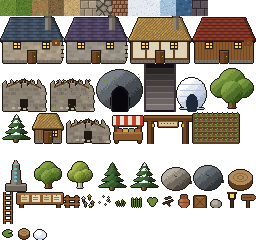
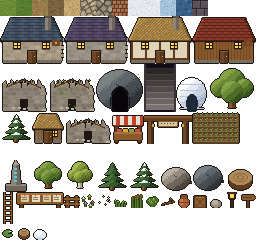
Village art pass: flagstone roads, calmer grass, readable ground foliage, roads kept clear
Claude-Session: https://claude.ai/code/session_01W1uJ5uHvqaBoa2FaNtCMxA

diff --git a/rpg.js b/rpg.js
@@ -277,6 +277,7 @@
     for (let x = 2; x <= W - 3; x++) if (x !== 19 && x !== 20) zplace(z, 'fence', x, 30);
     // outskirts field
     [['rock', 6, 33], ['rock', 30, 36], ['stump', 10, 39], ['treeB', 27, 32], ['treeA', 7, 38], ['stone', 25, 40], ['stone', 13, 35], ['crate', 17, 36], ['pot', 22, 36]].forEach(([n, x, y]) => zplace(z, n, x, y));
+    z.noDecoOn = (g) => g === PAVE || g === COB || g === DIRT; // keep the roads clear
     scatter(z, 80, ['flowers', 'dots', 'tuft', 'tuft2', 'clover', 'twigs'], 7);
     z.exits.push({ x: 19, y: H - 1, w: 2, h: 1, to: 'r0', tx: 18, ty: 2, label: () => `${REG()[0].name}`, locked: () => (R.q < 4 ? 'The road south isn\'t safe yet.' : null) });
     const built = (id) => !!(G._village && G._village.done(id));

diff --git a/sw.js b/sw.js
@@ -1,7 +1,7 @@
 /* Pulse Workout Tracker — service worker
    Cache-first for the app shell so it loads instantly and fully offline.
    Bump CACHE on every release so clients pick up the new files. */
-const CACHE = 'pulse-v34';
+const CACHE = 'pulse-v35';
 const SHELL = [
   './',
   './index.html',

diff --git a/tools/envgen.py b/tools/envgen.py
@@ -20,12 +20,16 @@ def tile(fn):
     return im
 def grass(base,light,dark,seed):
     b,l,d=C(base),C(light),C(dark)
+    m=sh(b,1.05)
     def f(x,y):
+        # soft 4x4 patches of a slightly lighter base, then sparse blades: highlight with a shadow under it
+        patch=hh(x//4,y//4,seed+40)<0.35
+        c=m if patch else b
         r=hh(x,y,seed)
-        if r<0.10: return l
-        if r<0.2: return d
-        if hh(x,(y+1)%16,seed)<0.1 and r<0.35: return d  # blade shadow under highlights
-        return b
+        if r<0.055: return l
+        if hh(x,(y+15)%16,seed)<0.055: return d  # the shadow under a blade
+        if r>0.97: return sh(d,1.08)
+        return c
     return tile(f)
 def dirt(base,light,dark,seed,flecks=None):
     b,l,d=C(base),C(light),C(dark)
@@ -49,9 +53,9 @@ def flags(base,mortar,seed,size=8):
         if hh(x,y,seed)<0.05: c=sh(c,0.85)
         return c
     return tile(f)
-def cobble(base,gap,seed):
+def cobble(base,gap,seed,cells=None):
     b,g=C(base),C(gap)
-    cs=[(3,3),(11,2),(7,8),(14,9),(2,12),(10,14),(6,0)]
+    cs=list(cells) if cells else [(3,3),(11,2),(7,8),(14,9),(2,12),(10,14),(6,0)]
     def f(x,y):
         best=9e9;sec=9e9;bi=0
         for i,(cx,cy) in enumerate(cs):
@@ -94,8 +98,8 @@ GROUND={
  'ts,24,11':dirt('#9a7a4c','#b0905e','#7c6038',3,flecks='#6a8a36'),
  'ts,25,11':dirt('#7c6040','#927452','#5e4830',4,flecks='#557a2e'),
  'ts,20,11':dirt('#c4a670','#d8bc86','#a88c5a',5),
- 'ts,19,11':flags('#a8987e','#6e6252',6),
- 'ts,18,11':cobble('#8e8476','#4a4238',7),
+ 'ts,19,11':cobble('#a89a80','#6a5e4c',6,cells=((4,4),(12,3),(8,10),(15,12),(2,13),(10,0),(6,6.5),(13,8))),
+ 'ts,18,11':cobble('#948a78','#564c3e',7),
  'ts,26,11':bricks('#a86e4c','#5e3a26',8),
  'ts,15,19':snow(9),'ts,13,19':snow(10,True),'ts,19,19':ice(11),
  'ts,23,6':water(12),
@@ -225,19 +229,35 @@ def arch():  # village gateway (replaces the pack's shrine arch)
     return outline(im)
 def small(fn,w=16,h=16):
     im=canvas(w,h); d=ImageDraw.Draw(im); fn(d); return outline(im)
+def soft_outline(im,col):
+    px=im.load(); w,h=im.size; out=im.copy(); o=out.load()
+    for y in range(h):
+        for x in range(w):
+            if px[x,y][3]<10 and any(0<=x+dx<w and 0<=y+dy<h and px[x+dx,y+dy][3]>200 for dx,dy in ((1,0),(-1,0),(0,1))): o[x,y]=C(col)
+    return out
+def scatter(fn,col='#2c3e16'):
+    im=canvas(16,16); d=ImageDraw.Draw(im); fn(d); return soft_outline(im,col)
 def fence(d): d.rectangle((2,4,4,15),fill=C('#6e4626')); d.rectangle((11,4,13,15),fill=C('#6e4626')); d.rectangle((0,6,15,7),fill=C('#8a5a2c')); d.rectangle((0,11,15,12),fill=C('#8a5a2c')); d.point((3,4),fill=C('#a8743c')); d.point((12,4),fill=C('#a8743c'))
 def flowers(d):
     for i,(x,y) in enumerate(((3,6),(9,4),(12,10),(5,11),(10,13))):
         d.line((x,y+1,x,y+3),fill=C('#4e6e28')); col=('#e8e0d0','#d4aa30','#c84a6a','#9a7ad0','#e8e0d0')[i]; d.point((x,y),fill=C(col)); d.point((x-1,y),fill=sh(C(col),0.8)); d.point((x+1,y),fill=sh(C(col),0.8)); d.point((x,y-1),fill=sh(C(col),1.1))
 def dots(d):
     for i in range(7): d.point((int(2+12*hh(i,1)),int(3+11*hh(i,2))),fill=C(('#e8e0d0','#d4aa30')[i%2]))
-def tuft(d):
-    for x in (5,7,9,11): d.line((x,13,x+(1 if x>8 else -1),8+(x%3)),fill=C('#4e6e28')); d.point((x+(1 if x>8 else -1),8+(x%3)),fill=C('#86a446'))
-def tuft2(d):
-    for x in (4,6,8,10,12): d.line((x,14,x,6+(x%4)),fill=C('#5e7a32')); d.point((x,6+(x%4)),fill=C('#a8b86a'))
-def clover(d):
-    for cx,cy in ((6,8),(10,8),(8,11)): d.ellipse((cx-2,cy-2,cx+2,cy+2),fill=C('#6a8a36')); d.point((cx-1,cy-1),fill=C('#86a446'))
-def twigs(d): d.line((3,11,12,8),fill=C('#5e3c1c')); d.line((7,10,9,13),fill=C('#5e3c1c')); d.line((5,6,10,5),fill=C('#6e4626'))
+def tuft(d):  # a clump of grass: dark roots, lit tips
+    for i,x in enumerate((4,6,7,9,10,12)):
+        top=7+int(4*hh(i,31)); lean=(-1 if x<8 else 1)
+        d.line((x,14,x+lean,top),fill=C('#3e5a20')); d.line((x,14,x,top+2),fill=C('#567a2a')); d.point((x+lean,top),fill=C('#a6c25a'))
+def tuft2(d):  # reeds: tall stems with brown heads
+    for i,x in enumerate((4,7,9,12)):
+        top=3+int(3*hh(i,32)); d.line((x,15,x,top+3),fill=C('#567a2a')); d.line((x+1,15,x+1,top+5),fill=C('#3e5a20'))
+        d.rectangle((x,top,x+1,top+2),fill=C('#7a5228')); d.point((x,top),fill=C('#a0743c'))
+def clover(d):  # leafy shrub: three-tone, lit from the top left
+    for cx,cy,r in ((6,9,3),(10,8,3),(8,11,3)): d.ellipse((cx-r,cy-r,cx+r,cy+r),fill=C('#4a6e26'))
+    for cx,cy in ((5,8),(9,7),(7,10)): d.ellipse((cx-1,cy-1,cx+1,cy+1),fill=C('#6e9636'))
+    for x,y in ((5,7),(9,6),(7,9),(11,9)): d.point((x,y),fill=C('#a6c25a'))
+def twigs(d):  # fallen branch with a leaf or two
+    d.line((2,12,13,9),fill=C('#6e4626')); d.line((2,13,13,10),fill=C('#4a2e18')); d.line((8,11,10,7),fill=C('#6e4626'))
+    d.point((10,6),fill=C('#6e9636')); d.point((11,7),fill=C('#4a6e26')); d.point((4,11),fill=C('#8a5a30'))
 def pot(d): d.ellipse((3,5,12,15),fill=C('#a8603a')); d.rectangle((5,3,10,6),fill=C('#8a4a2a')); d.rectangle((4,7,6,12),fill=C('#c47a4a')); d.line((3,10,12,10),fill=C('#7a4024'))
 def crate(d): d.rectangle((2,4,13,15),fill=C('#8a5a2c')); d.rectangle((2,4,13,5),fill=C('#a8743c')); d.line((2,4,13,15),fill=C('#5e3c1c')); d.line((13,4,2,15),fill=C('#5e3c1c')); d.rectangle((2,4,13,15),outline=C('#5e3c1c'))
 def stone(d): d.ellipse((3,8,12,15),fill=C('#958c7e')); d.ellipse((4,8,9,12),fill=C('#b8b0a2'))
@@ -315,8 +335,8 @@ PROPS={
  'pine': lambda: pine(), 'snowtree': lambda: pine(snowy=True), 'snowpine': lambda: pine(32,48,True),
  'rock': lambda: rockshape(32,32,(2,8,30,30),STONE), 'boulder': lambda: rockshape(32,32,(2,6,30,30),DSTONE),
  'stump': lambda: small(lambda d:(d.ellipse((5,14,27,29),fill=C('#5e3c1c')),d.ellipse((5,10,27,24),fill=C('#b08a5a')),d.ellipse((9,13,23,21),outline=C('#8a6a3a')),d.ellipse((13,15,19,19),outline=C('#8a6a3a'))),32,32),
- 'fence':lambda: small(fence),'flowers':lambda: small(flowers),'dots':lambda: small(dots),'tuft':lambda: small(tuft),'tuft2':lambda: small(tuft2),'clover':lambda: small(clover),
- 'twigs':lambda: small(twigs),'pot':lambda: small(pot),'crate':lambda: small(crate),'stone':lambda: small(stone),'lantern':lambda: small(lantern),'post':lambda: small(post),
+ 'fence':lambda: small(fence),'flowers':lambda: scatter(flowers),'dots':lambda: small(dots),'tuft':lambda: scatter(tuft),'tuft2':lambda: scatter(tuft2),'clover':lambda: scatter(clover),
+ 'twigs':lambda: scatter(twigs,'#2a1a10'),'pot':lambda: small(pot),'crate':lambda: small(crate),'stone':lambda: small(stone),'lantern':lambda: small(lantern),'post':lambda: small(post),
  'lily':lambda: small(lily),'stump1':lambda: small(stump1),'snowball':lambda: small(snowball),'ladder':lambda: small(ladder,16,32),
 }
 def build_atlas(out_png, out_json):

diff --git a/DEVLOG.md b/DEVLOG.md
@@ -321,3 +321,11 @@ Every library is a local, audited copy (see `vendor/README.md`). The app still m
 - Dungeons: about half of floors get a modifier, named on arrival — Swarming (more monsters, richer chests), Champions (all elites, double XP), Hoard (extra chests), Lightless (short torchlight, richer chests). Around 40% of floors hide a cracked wall: tap it to open a secret room with a better chest. Opened walls are remembered. Separate seed, so floor layouts are unchanged. Not in the Vault or Weekly Depths.
 - Friends: new challenge type "Best single set" (personal-record contest, single-set cap so nobody logs 9,999). Older copies of Pulse can't join one; they say the code isn't valid.
 - Checked and skipped: equipment set bonuses already existed (full armour set of one material).
+
+## Village art pass — cache pulse-v35
+- tools/envgen.py regenerated env2.png (same atlas layout, so nothing else moves):
+  - Main roads are irregular warm flagstones instead of a square tile grid; the cross street is a warmer cobble that matches.
+  - Grass is calmer: soft 4×4 patches and sparse blades instead of per-pixel static.
+  - Ground scatter (grass clumps, reeds, shrubs, twigs, flowers) uses a dark outline in its own colour, not black, with three-tone shading. Before, the shrub and reeds blended into the grass and only their black outlines showed.
+- Village decoration no longer lands on roads.
+- Not changed: buildings, trees, rocks, the hero and NPC sprites. They already share the same chunky style.
